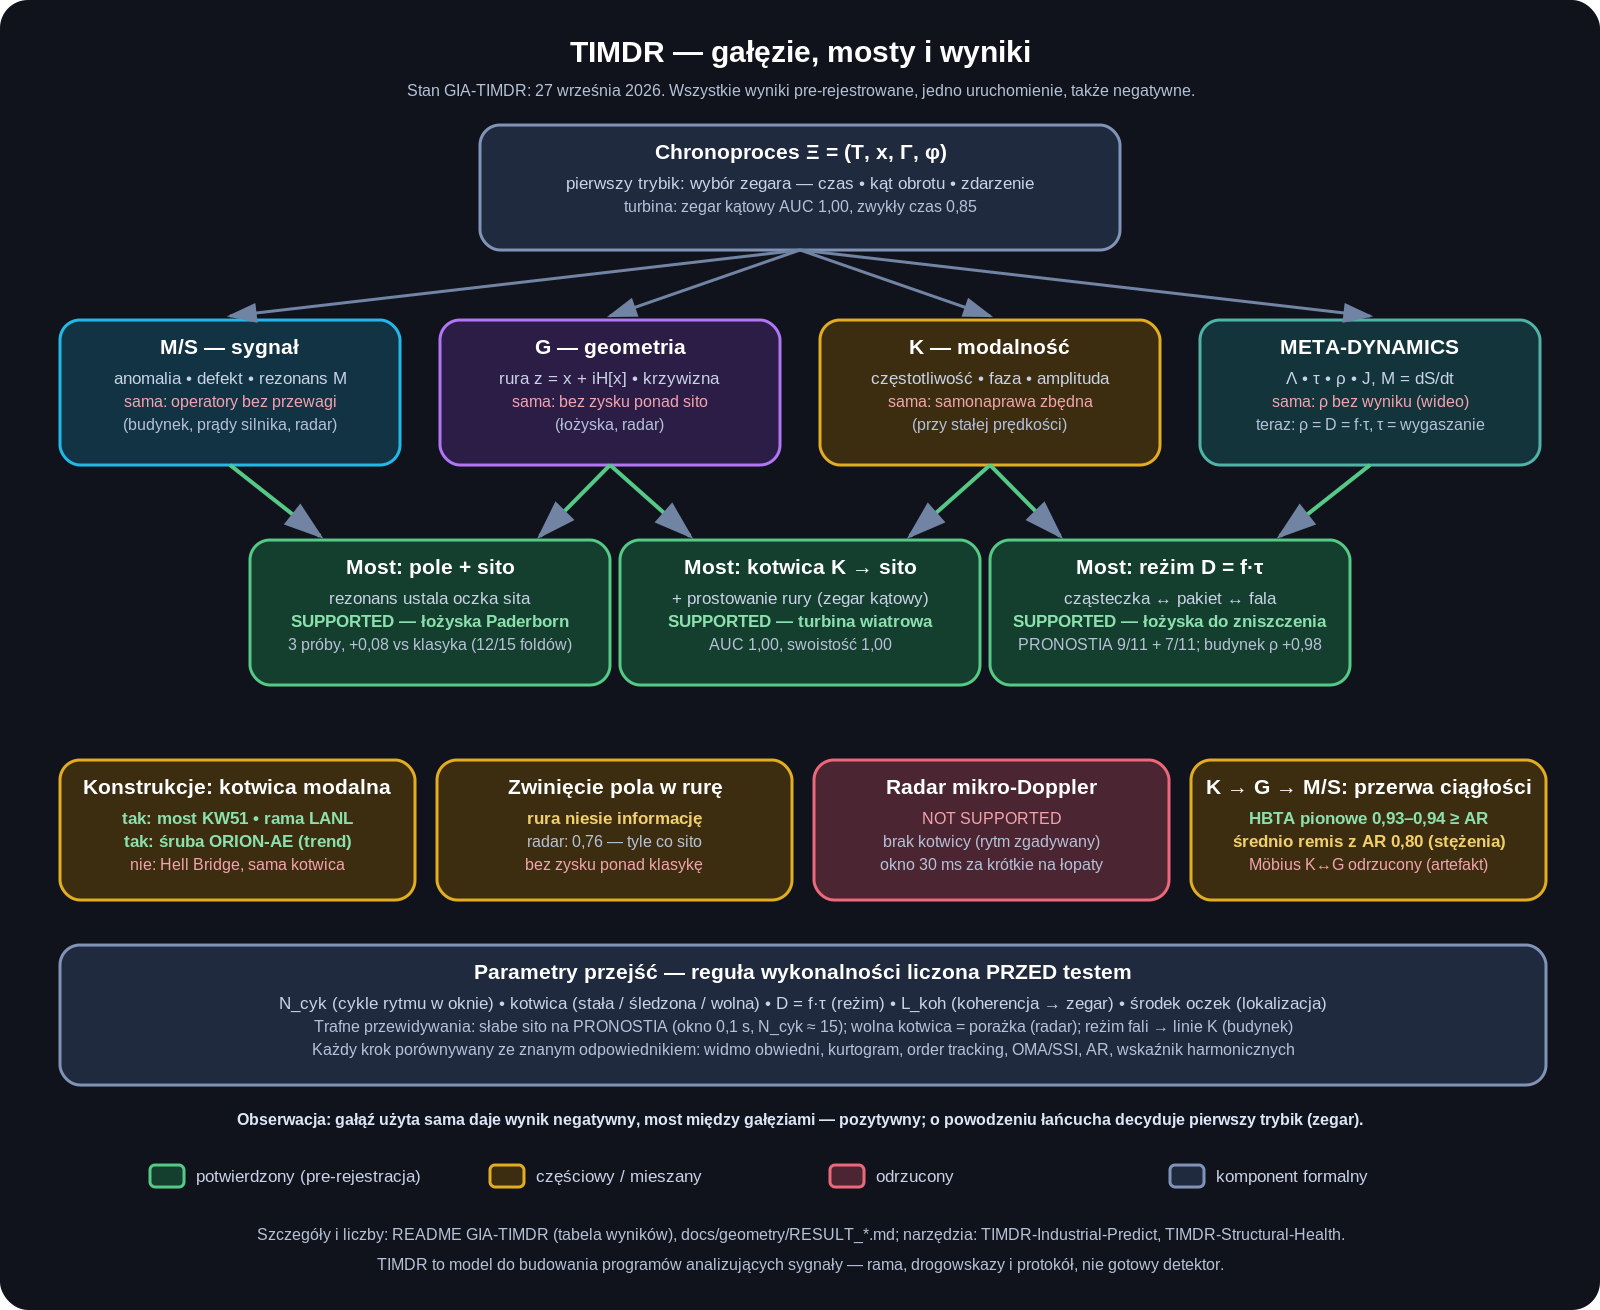
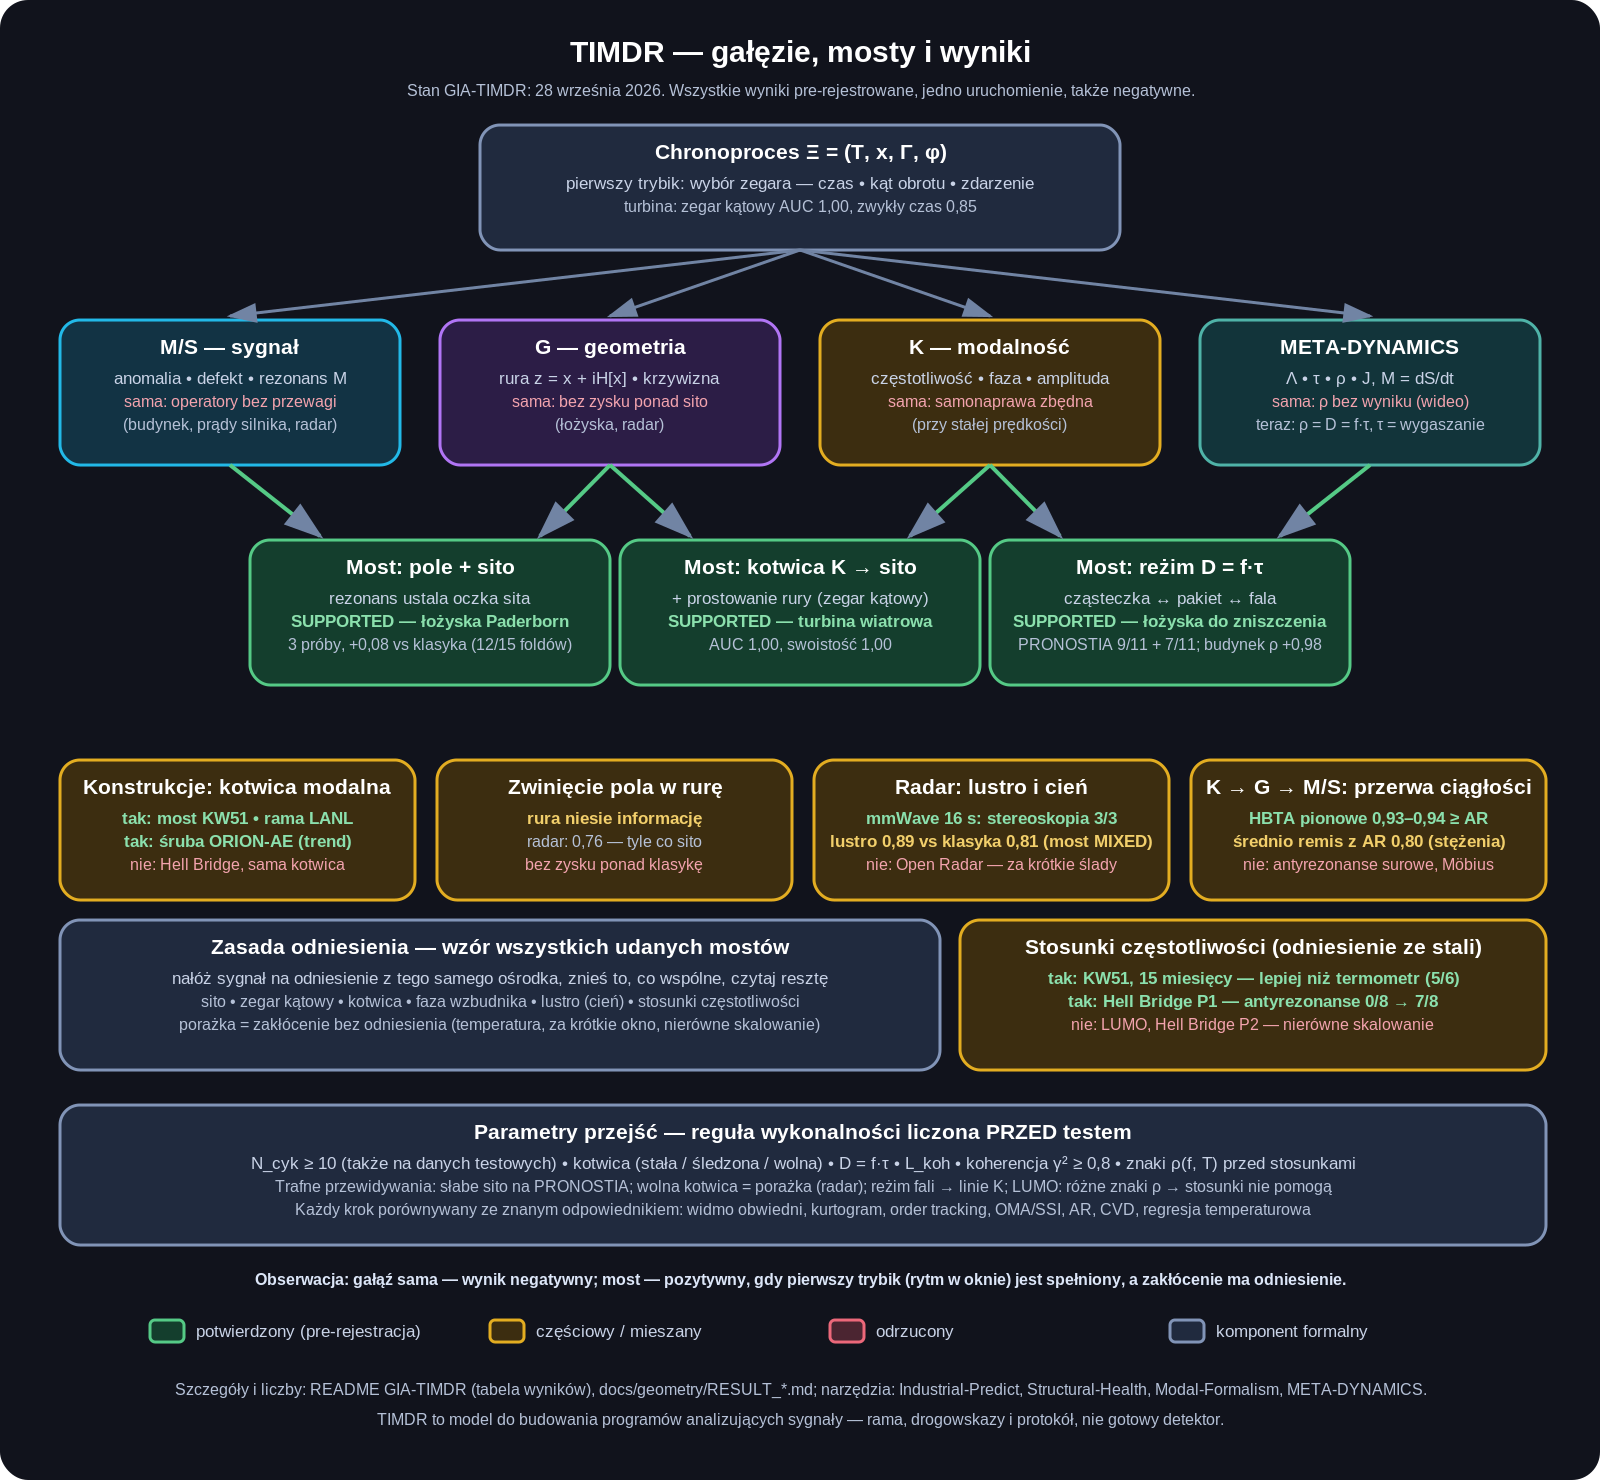
Diagram galezi 28.09: zasada odniesienia, stosunki czestotliwosci, radar lustro i cien (mmWave), antyrezonanse
Claude-Session: https://claude.ai/code/session_01D7JJTxtWXcNbU6Qt1Y691b

diff --git a/index.html b/index.html
@@ -265,7 +265,7 @@
         <!-- DIAGRAM: cztery gałęzie TIMDR (Chronoproces -> M/S, G, K -> META-DYNAMICS), mosty i status -->
         <div class="mermaid-panel">
         <p style="font-size:13px;font-weight:600;color:var(--text-color);margin:0 0 10px;">Cztery gałęzie TIMDR — mosty i status <span style="color:var(--text-muted);font-weight:400;">(kliknij, aby powiększyć)</span></p>
-        <img id="branchDiagramImg" src="timdr-branches-diagram.svg" alt="Mapa TIMDR (27.09.2026): Chronoproces, cztery gałęzie, mosty z wynikami, parametry przejść i reguła wykonalności" style="max-width:100%;height:auto;display:block;margin:0 auto;border-radius:6px;cursor:zoom-in;">
+        <img id="branchDiagramImg" src="timdr-branches-diagram.svg" alt="Mapa TIMDR (28.09.2026): Chronoproces, cztery gałęzie, mosty z wynikami, zasada odniesienia, stosunki częstotliwości, lustro i cień, parametry przejść i reguła wykonalności" style="max-width:100%;height:auto;display:block;margin:0 auto;border-radius:6px;cursor:zoom-in;">
         </div>
 
         <!-- Lightbox: powiekszony diagram na pelnym ekranie po kliknieciu -->

diff --git a/docs/rysuj_diagram_galezi.py b/docs/rysuj_diagram_galezi.py
@@ -1,10 +1,10 @@
-"""Generuje timdr-branches-diagram.svg i .png (mapa galezi, mostow i wynikow TIMDR). Stan: 27 wrzesnia 2026.
+"""Generuje timdr-branches-diagram.svg i .png (mapa galezi, mostow i wynikow TIMDR). Stan: 28 wrzesnia 2026.
 Uzycie: python docs/rysuj_diagram_galezi.py  (zapisuje pliki w katalogu glownym strony).
 PNG powstaje przez cairosvg (pip install cairosvg; na Windows wymaga biblioteki Cairo) -- gdy jej brak, powstaje tylko SVG."""
 from pathlib import Path
 from xml.sax.saxutils import escape
 
-W, H = 1600, 1310
+W, H = 1600, 1480
 out = []
 A = out.append
 
@@ -22,9 +22,9 @@ def line(x1, y1, x2, y2, cls="line", arrow=True):
 
 
 A(f'<svg xmlns="http://www.w3.org/2000/svg" width="{W}" height="{H}" viewBox="0 0 {W} {H}" role="img" aria-labelledby="title desc">')
-A('<title id="title">TIMDR — gałęzie, mosty i wyniki (27 września 2026)</title>')
+A('<title id="title">TIMDR — gałęzie, mosty i wyniki (28 września 2026)</title>')
 A('<desc id="desc">Chronoproces i cztery gałęzie TIMDR; gałęzie użyte same dają wyniki negatywne, mosty między nimi — pozytywne; '
-  'parametry przejść i reguła wykonalności; wyniki na łożyskach, turbinie, konstrukcjach i radarze.</desc>')
+  'zasada odniesienia z tego samego ośrodka; parametry przejść i reguła wykonalności; wyniki na łożyskach, turbinie, konstrukcjach i radarze.</desc>')
 A('''<defs><style>
 .bg{fill:#11131c}.formal{fill:#202a3e;stroke:#8194b7;stroke-width:3}.ms{fill:#123344;stroke:#22b9e8;stroke-width:3}
 .g{fill:#2c1d46;stroke:#b175f5;stroke-width:3}.k{fill:#3c2d10;stroke:#e3ad21;stroke-width:3}.meta{fill:#12343a;stroke:#4fb3a8;stroke-width:3}
@@ -37,7 +37,7 @@ A('''<defs><style>
 <marker id="arrow" markerWidth="10" markerHeight="10" refX="8" refY="3" orient="auto"><path d="M0,0 L9,3 L0,6 Z" fill="#7184a4"/></marker></defs>''')
 A(f'<rect class="bg" width="{W}" height="{H}" rx="28"/>')
 A('<text x="800" y="62" text-anchor="middle" class="h">TIMDR — gałęzie, mosty i wyniki</text>')
-A('<text x="800" y="96" text-anchor="middle" class="note">Stan GIA-TIMDR: 27 września 2026. Wszystkie wyniki pre-rejestrowane, jedno uruchomienie, także negatywne.</text>')
+A('<text x="800" y="96" text-anchor="middle" class="note">Stan GIA-TIMDR: 28 września 2026. Wszystkie wyniki pre-rejestrowane, jedno uruchomienie, także negatywne.</text>')
 
 # Chronoproces
 box(480, 125, 640, 125, "formal", [("Chronoproces Ξ = (T, x, Γ, φ)", "sh"), ("pierwszy trybik: wybór zegara — czas • kąt obrotu • zdarzenie", "small"),
@@ -65,25 +65,35 @@ for (x, t, s, r1, r2), (a, b) in zip(mosty, [(0, 1), (1, 2), (2, 3)]):
 RY = 760; RW, RH = 355, 140
 wyniki = [(60, "partial", "Konstrukcje: kotwica modalna", ("tak: most KW51 • rama LANL", "pos"), ("tak: śruba ORION-AE (trend)", "pos"), ("nie: Hell Bridge, sama kotwica", "neg")),
           (437, "partial", "Zwinięcie pola w rurę", ("rura niesie informację", "mid"), ("radar: 0,76 — tyle co sito", "note"), ("bez zysku ponad klasykę", "neg")),
-          (814, "reject", "Radar mikro-Doppler", ("NOT SUPPORTED", "neg"), ("brak kotwicy (rytm zgadywany)", "note"), ("okno 30 ms za krótkie na łopaty", "note")),
-          (1191, "partial", "K → G → M/S: przerwa ciągłości", ("HBTA pionowe 0,93–0,94 ≥ AR", "pos"), ("średnio remis z AR 0,80 (stężenia)", "mid"), ("Möbius K↔G odrzucony (artefakt)", "neg"))]
+          (814, "partial", "Radar: lustro i cień", ("mmWave 16 s: stereoskopia 3/3", "pos"), ("lustro 0,89 vs klasyka 0,81 (most MIXED)", "mid"), ("nie: Open Radar — za krótkie ślady", "neg")),
+          (1191, "partial", "K → G → M/S: przerwa ciągłości", ("HBTA pionowe 0,93–0,94 ≥ AR", "pos"), ("średnio remis z AR 0,80 (stężenia)", "mid"), ("nie: antyrezonanse surowe, Möbius", "neg"))]
 for x, c, t, *ls in wyniki:
     box(x, RY, RW, RH, c, [(t, "sh")] + list(ls))
 
+# zasada odniesienia + stosunki
+box(60, 920, 880, 150, "formal", [("Zasada odniesienia — wzór wszystkich udanych mostów", "sh"),
+    ("nałóż sygnał na odniesienie z tego samego ośrodka, znieś to, co wspólne, czytaj resztę", "small"),
+    ("sito • zegar kątowy • kotwica • faza wzbudnika • lustro (cień) • stosunki częstotliwości", "note"),
+    ("porażka = zakłócenie bez odniesienia (temperatura, za krótkie okno, nierówne skalowanie)", "note")])
+box(960, 920, 586, 150, "partial", [("Stosunki częstotliwości (odniesienie ze stali)", "sh"),
+    ("tak: KW51, 15 miesięcy — lepiej niż termometr (5/6)", "pos"),
+    ("tak: Hell Bridge P1 — antyrezonanse 0/8 → 7/8", "pos"),
+    ("nie: LUMO, Hell Bridge P2 — nierówne skalowanie", "neg")])
+
 # parametry przejsc
-box(60, 945, 1486, 140, "formal", [("Parametry przejść — reguła wykonalności liczona PRZED testem", "sh"),
-    ("N_cyk (cykle rytmu w oknie) • kotwica (stała / śledzona / wolna) • D = f·τ (reżim) • L_koh (koherencja → zegar) • środek oczek (lokalizacja)", "small"),
-    ("Trafne przewidywania: słabe sito na PRONOSTIA (okno 0,1 s, N_cyk ≈ 15); wolna kotwica = porażka (radar); reżim fali → linie K (budynek)", "note"),
-    ("Każdy krok porównywany ze znanym odpowiednikiem: widmo obwiedni, kurtogram, order tracking, OMA/SSI, AR, wskaźnik harmonicznych", "note")])
-A('<text x="800" y="1125" text-anchor="middle" class="label">Obserwacja: gałąź użyta sama daje wynik negatywny, most między gałęziami — pozytywny; o powodzeniu łańcucha decyduje pierwszy trybik (zegar).</text>')
+box(60, 1105, 1486, 140, "formal", [("Parametry przejść — reguła wykonalności liczona PRZED testem", "sh"),
+    ("N_cyk ≥ 10 (także na danych testowych) • kotwica (stała / śledzona / wolna) • D = f·τ • L_koh • koherencja γ² ≥ 0,8 • znaki ρ(f, T) przed stosunkami", "small"),
+    ("Trafne przewidywania: słabe sito na PRONOSTIA; wolna kotwica = porażka (radar); reżim fali → linie K; LUMO: różne znaki ρ → stosunki nie pomogą", "note"),
+    ("Każdy krok porównywany ze znanym odpowiednikiem: widmo obwiedni, kurtogram, order tracking, OMA/SSI, AR, CVD, regresja temperaturowa", "note")])
+A('<text x="800" y="1285" text-anchor="middle" class="label">Obserwacja: gałąź sama — wynik negatywny; most — pozytywny, gdy pierwszy trybik (rytm w oknie) jest spełniony, a zakłócenie ma odniesienie.</text>')
 
 # legenda
-LY = 1165
+LY = 1320
 for i, (c, t) in enumerate([("support", "potwierdzony (pre-rejestracja)"), ("partial", "częściowy / mieszany"), ("reject", "odrzucony"), ("formal", "komponent formalny")]):
     x = 150 + i * 340
     A(f'<rect x="{x}" y="{LY}" width="34" height="22" rx="5" class="{c}"/>'); A(f'<text x="{x + 46}" y="{LY + 17}" class="small">{t}</text>')
-A('<text x="800" y="1240" text-anchor="middle" class="note">Szczegóły i liczby: README GIA-TIMDR (tabela wyników), docs/geometry/RESULT_*.md; narzędzia: TIMDR-Industrial-Predict, TIMDR-Structural-Health.</text>')
-A('<text x="800" y="1270" text-anchor="middle" class="note">TIMDR to model do budowania programów analizujących sygnały — rama, drogowskazy i protokół, nie gotowy detektor.</text>')
+A('<text x="800" y="1395" text-anchor="middle" class="note">Szczegóły i liczby: README GIA-TIMDR (tabela wyników), docs/geometry/RESULT_*.md; narzędzia: Industrial-Predict, Structural-Health, Modal-Formalism, META-DYNAMICS.</text>')
+A('<text x="800" y="1425" text-anchor="middle" class="note">TIMDR to model do budowania programów analizujących sygnały — rama, drogowskazy i protokół, nie gotowy detektor.</text>')
 A("</svg>")
 root = Path(__file__).resolve().parent.parent
 svg = root / "timdr-branches-diagram.svg"
